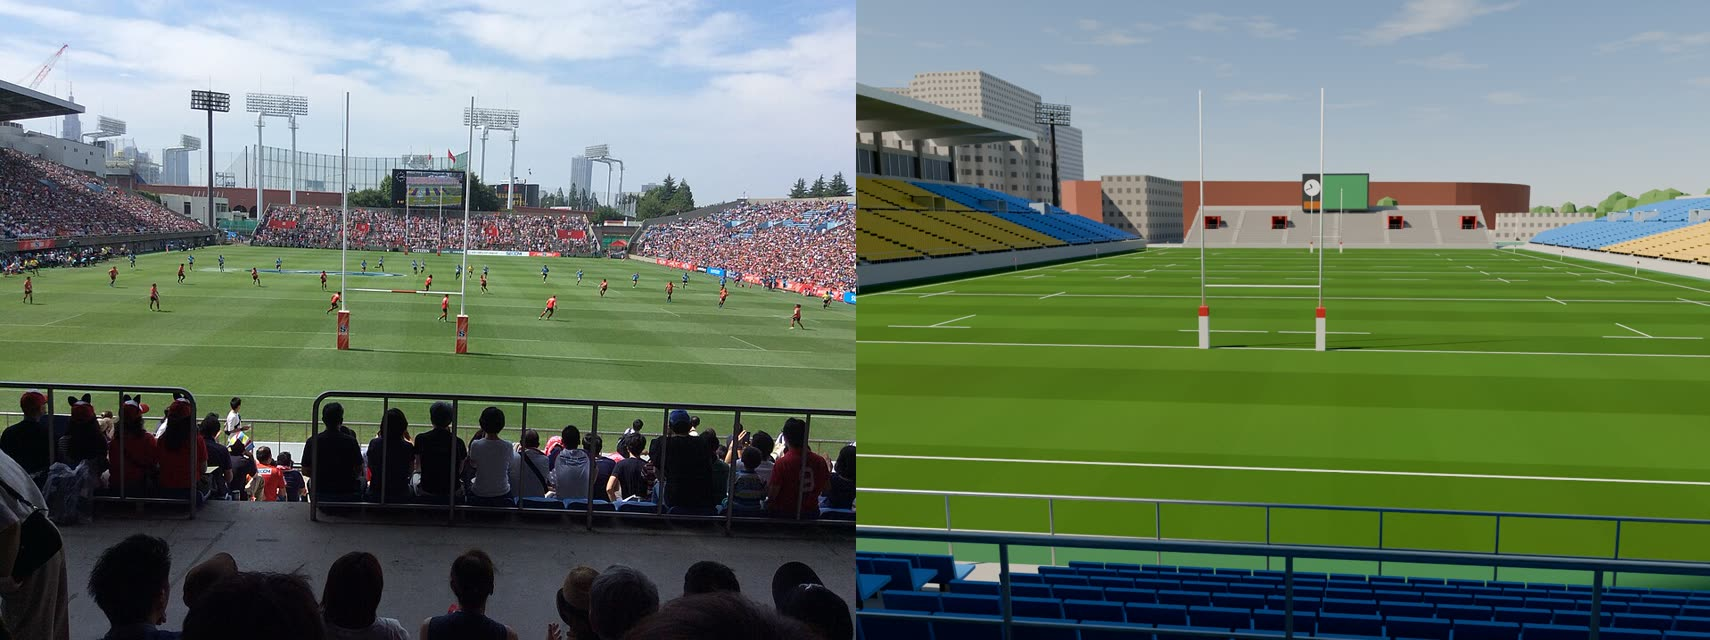
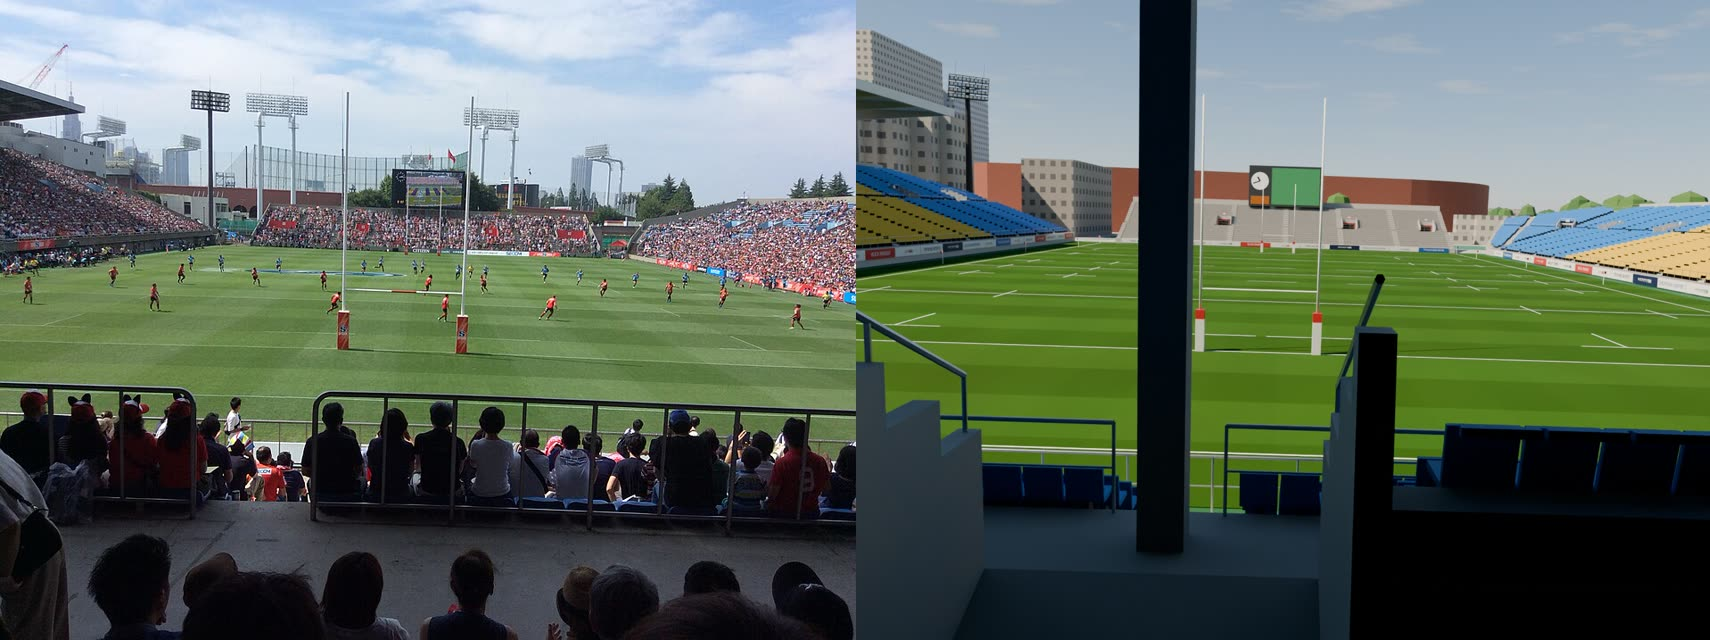
比較 04 のカメラをポストから解き直した(映像装置の位置は正しかった)
- 手前と奥のポスト 10 点から位置・向き・傾き・焦点距離を解いた(平均 2 画素)。
  前のカメラは出入口の箱を避けるために Y を 4.8 m ずらしていて、映像装置が東へずれて見えていた。
- compare.py に角度ごとの roll と clip を足した。
- 手前の南スタンド(柱が中央にある、段が高い)は写真と違う。remaining.md に書いた。

Changed region(s): [[0.4959, 0.0, 1.0, 1.0], [0.7749, 0.0, 0.8678, 0.0625]]

diff --git a/tools/fit_cam_points.py b/tools/fit_cam_points.py
@@ -1,0 +1,57 @@
+"""既知の 3D 点と写真の点から、カメラ(位置、yaw、pitch、roll、焦点距離)を最小二乗で解く。"""
+import math, sys
+src = open("fit_cam.py").read()
+ns = {}; exec(src.split("def cam(p):")[0] + "def nm" + src.split("def nm")[1].split("for label, near in")[0], ns)
+nm = ns["nm"]
+W, H = 960, 717
+OBS = [  # (X, Y, Z) -> (x, y)   写真 04
+    ((-50, 2.8, 12.0), (389.5, 103.5)), ((-50, 2.8, 0.0), (385, 390)),
+    ((-50, -2.8, 12.0), (529.5, 109)), ((-50, -2.8, 0.0), (518, 396)),
+    ((-50, 2.8, 3.0), (390, 325)), ((-50, -2.8, 3.0), (517.5, 328.5)),
+    ((50, 2.8, 0.0), (456, 282)), ((50, -2.8, 0.0), (493.5, 283)),
+    ((50, 2.8, 12.0), (456, 205)), ((50, -2.8, 12.0), (493.5, 205)),
+]
+def cam(p):
+    cx, cy, cz, yaw, pitch, roll, lens = p
+    f = (math.cos(yaw) * math.cos(pitch), math.sin(yaw) * math.cos(pitch), -math.sin(pitch))
+    r = (f[1], -f[0], 0.0); n = math.hypot(r[0], r[1]); r = (r[0] / n, r[1] / n, 0.0)
+    u = (r[1] * f[2] - r[2] * f[1], r[2] * f[0] - r[0] * f[2], r[0] * f[1] - r[1] * f[0])
+    cr, sr = math.cos(roll), math.sin(roll)
+    r2 = tuple(r[i] * cr + u[i] * sr for i in range(3)); u2 = tuple(u[i] * cr - r[i] * sr for i in range(3))
+    return (cx, cy, cz), f, r2, u2, W * lens / 36.0
+def proj(c, P):
+    C, f, r, u, fp = c
+    d = [P[i] - C[i] for i in range(3)]; z = sum(d[i] * f[i] for i in range(3))
+    return (W / 2 + fp * sum(d[i] * r[i] for i in range(3)) / z, H / 2 - fp * sum(d[i] * u[i] for i in range(3)) / z)
+def cost(p):
+    c = cam(p); s = 0
+    for P, q in OBS:
+        a = proj(c, P); s += (a[0] - q[0]) ** 2 + (a[1] - q[1]) ** 2
+    return s
+XF = float(sys.argv[1]) if len(sys.argv) > 1 else None
+NEAR_ONLY = len(sys.argv) > 2
+if NEAR_ONLY:
+    OBS[:] = OBS[:6]
+best = None
+for lens in (27, 29, 32):
+    if XF is None:
+        p, v = nm(cost, [-84, -1.0, 7.0, 0.05, math.radians(5), 0.0, lens], [3, 2, 2, 0.03, 0.03, 0.02, 3], 6000)
+    else:
+        f6 = lambda q: cost([XF] + q)
+        q, v = nm(f6, [-1.0, 6.0, 0.05, math.radians(5), 0.0, lens], [2, 2, 0.03, 0.03, 0.02, 3], 6000)
+        p = [XF] + q
+    if best is None or v < best[1]: best = (p, v)
+p, v = best
+print("rms %.2f px  cam (%.1f, %.1f, %.1f) yaw %.2f° pitch %.2f° roll %.2f° lens %.1f mm" % (
+    math.sqrt(v / len(OBS)), p[0], p[1], p[2], math.degrees(p[3]), math.degrees(p[4]), math.degrees(p[5]), p[6]))
+c = cam(p)
+print("見る先 (%.1f, %.1f, %.1f)" % tuple(c[0][i] + c[1][i] * 120 for i in range(3)))
+for name, P in (("映像装置の中心(Y=-1)", (86, -1, 12.8)), ("映像装置の西端 Y=7", (86, 7, 12.8)), ("東端 Y=-9", (86, -9, 12.8))):
+    print(name, "→ x %.0f y %.0f" % proj(c, P))
+# 写真の映像装置: x 440〜521、中心 480.5、y 189〜230
+lo, hi = -40.0, 40.0
+for _ in range(60):
+    m = (lo + hi) / 2
+    if proj(c, (86, m, 12.8))[0] > 480.5: lo = m
+    else: hi = m
+print("写真の映像装置の中心は Y = %.1f(X=86 とすると)" % m)

diff --git a/scripts/compare.py b/scripts/compare.py
@@ -4,6 +4,7 @@
 左が参考写真(Wikimedia Commons)、右がこのモデル。refs/commons/ に写真がなければ描いた側だけを out/compare/ に残す。
 """
 import argparse
+import math
 import os
 import subprocess
 import sys
@@ -15,6 +16,11 @@ import bpy  # noqa: E402
 from cb import cameras, config, sky  # noqa: E402
 
 # (番号と名前, 参考写真のファイル, 作者, ライセンス, 昼夜, カメラ位置, 見る先, 焦点距離 mm, 縦横比)
+# 角度ごとの追加: roll(度、画像の傾き)、clip(手前を描かない距離 m。カメラが模型の段より下に入るとき)
+EXTRA = {
+    "04_from_south": {"roll": 1.79, "clip": 4.0},   # 解いたカメラ(高さ 6.6 m)は模型の南スタンドの段より低い。手前 4 m を描かない
+}
+
 ITEMS = [
     # 段階 3 で入れた比較(段数・高さ・屋根の奥行の確かめ)。カメラはゴールポスト(高さ 12 m、間隔 5.6 m)が重なるように合わせる
     ("01_from_back_south", "Chichibunomiya3.JPG", "Waka77", "Public domain", "day",
@@ -24,7 +30,7 @@ ITEMS = [
     ("03_back_stand", "秩父宮ラグビー場_(21776716854).jpg", "Tetsuji Sakakibara", "CC BY-SA 2.0", "day",
      (-3.3, 67.2, 12.8), (1.3, -59.3, 1.6), 31.8, (4, 3)),   # 芝のライン 20 点から最小二乗で解いた(平均 1.2 画素)
     ("04_from_south", "Chichibunomiya_Rugby_Stadium2.jpg", "江戸村のとくぞう", "CC BY-SA 4.0", "day",
-     (-82.2, -4.0, 6.1), (39.3, 7.3, -11.6), 29, (4, 3)),
+     (-86.8, -1.1, 6.6), (32.1, -1.3, -9.5), 32.7, (4, 3)),   # 手前と奥のポスト 10 点から解いた(平均 2 画素)
     ("05_behind_north_posts", "Chichibunomiya_Rugby_Stadium-6.jpg", "江戸村のとくぞう", "CC BY-SA 4.0", "day",
      (77.7, 4.6, 4.6), (-60.0, -18.3, 16.4), 46, (3, 2)),
 ]
@@ -56,6 +62,13 @@ def main():
         scene.render.image_settings.quality = 92
         (sky.setup_day if tm == "day" else sky.setup_night)(scene)
         scene.camera = cameras.make(scene, "cmp_" + name, loc, tgt, lens)
+        ex = EXTRA.get(name, {})
+        if ex.get("roll"):
+            from mathutils import Quaternion
+            ob = scene.camera
+            ob.rotation_euler = (ob.rotation_euler.to_quaternion() @ Quaternion((0, 0, 1), math.radians(ex["roll"]))).to_euler()
+        if ex.get("clip"):
+            scene.camera.data.clip_start = ex["clip"]
         rp = os.path.join(out_r, name + ".jpg")
         scene.render.filepath = rp
         bpy.ops.render.render(write_still=True)

diff --git a/tools/lines_overlay.py b/tools/lines_overlay.py
@@ -7,7 +7,7 @@ import sys
 
 photo, out = sys.argv[1], sys.argv[2]
 cx, cy, cz, tx, ty, tz, lens = map(float, sys.argv[3:10])
-W, H = 960, 720
+W, H = (int(sys.argv[10]), int(sys.argv[11])) if len(sys.argv) > 11 else (960, 720)
 raw = subprocess.run(["ffmpeg", "-loglevel", "error", "-i", photo, "-vf", "scale=%d:%d" % (W, H),
                       "-f", "rawvideo", "-pix_fmt", "rgb24", "-"], capture_output=True, check=True).stdout
 img = bytearray(raw)
@@ -52,6 +52,15 @@ for y in (30, -30, 20, -20):
     seg((-50, y, 0), (50, y, 0), CY)                  # 5 m・15 m
 for x in (0, 10, -10, 28, -28, 50, -50):
     seg((x, -35, 0), (x, 35, 0), RED if x in (0, 50, -50, 28, -28) else CY)
+# ゴールポスト(X=±50、Y=±2.8、高さ 12 m、クロスバー 3 m)
+for gx in (50, -50):
+    for gy in (2.8, -2.8):
+        seg((gx, gy, 0), (gx, gy, 12), YEL)
+    seg((gx, -2.8, 3), (gx, 2.8, 3), YEL)
+# 北の前の壁(X=70.5)、映像装置(X=86、Y 7〜−9、8.4〜17.2 m)
+seg((70.5, -33, 1.0), (70.5, 35.7, 1.0), MAG)
+for (y0, y1, z0, z1) in ((7, -9, 8.4, 8.4), (7, -9, 17.2, 17.2), (7, 7, 8.4, 17.2), (-9, -9, 8.4, 17.2)):
+    seg((86, y0, z0), (86, y1, z1), MAG)
 # 東の前の壁(Y=-41.7、上端 1.2 m)と最上部(Y=-76.4、11.2 m)、照明塔の頭
 seg((-70, -41.7, 1.2), (70, -41.7, 1.2), YEL)
 seg((-70, -41.7, 0.1), (70, -41.7, 0.1), YEL)

diff --git a/PROGRESS.md b/PROGRESS.md
@@ -28,11 +28,13 @@
 | 23:43 | バックスタンドの両端を、芝の中央の方へ回り込む角のブロックにした(座席図・空中写真・写真 Rugby1/2)。出入口を上の開いた穴(低い壁と手すり)にした | 良くなった。比較 02・03 の手前、空中写真の角の出入口の向き |
 | 23:48 | 看板: 四方の前の壁に幅 6 m の架空の看板(`signage.py`、社名 12 種) | 良くなった。比較 03・05 で白い看板の列が写真と同じ位置 |
 | 23:57 | 比較 03 のカメラを芝のライン 20 点から最小二乗で解き直した(傾き 7.9→5.1 度、29→31.8 mm)。東の照明塔を測り直した(25→31 m、南東 X −58→−48) | 良くなった。芝・看板・スタンド最上部(11.2 m は正しかった)・照明塔が重なる |
+| 00:07 | 比較 04 のカメラをポスト 10 点から解き直した(X −82.2→−86.8、Y −4→−1.1、29→32.7 mm、傾き 1.8 度。前は出入口の箱を避けるために Y を 4.8 m ずらしていた)。`compare.py` に roll と clip を足した | 良くなった。映像装置は空中写真の位置のままで写真と重なる(ずれていたのはカメラ)。手前の南スタンドの柱と段は違う(次の項目) |
 
 自分で決めたこと:
 - 角のブロックの向きは 60 度、折れ目は |X| = 64.8(推定)。62.8 だと比較 02 の撮影位置で段が高すぎたので外へ 2 m ずらした。
 - 角の外周は腰壁ではなく手すり(壁だと比較 01 の撮影位置の前をふさぐ)。
 - 出入口の床は奥へ 1.2 m 下がる(奥の口の高さを取るため。推定)。
+- 比較 04 のカメラは、X も解いた方(−86.8、平均 2 画素)を採った。X を −82.6 に固定しても 3 画素で合うが、それだと写真にない南の屋根の柱がカメラの前に来る。
 - 比較 03 の手前の破線は 5 m・15 m ラインとした(もう一方の仮定ではカメラがスタンドの中に入る)。東の照明塔の奥行 Y = −82 は前と同じ仮定。
 - 看板は前の壁の面だけにし、白地を多めにした(写真 03・05)。社名はラグビーの言葉と外苑・青山の言葉から作った架空のもの。
 

diff --git a/docs/remaining.md b/docs/remaining.md
@@ -7,7 +7,8 @@
 1. **看板は前の壁だけ**。四方の前の壁に幅 6 m の架空の看板を並べた(`signage.py`)。写真で見える芝の外の低い看板、ゲート番号の数字はまだ。
    写真 03 では看板の帯が模型より太く明るい(高さ 1 m は推定)。
 2. **スタンドの外壁と正面入場口がない**。メインの後ろ(西)は躯体の箱のまま。正面の門(施設名の入った門型の枠)、北・南の外側の階段も未作成。
-3. **映像装置の左右の位置**(比較 04)。写真では右のポストの左、模型では右に見え、東へ 10 m ほどずれている。比較 01 では合うので、空中写真で測り直してどちらに合わせるか決める。
+3. **南スタンドの屋根の柱と断面**(比較 04・05)。写真 05 では柱が 7.8 m おきで中央(Y = 0)に柱がない(Y ≈ −36.9、−29.1 … 2.2 … 33.3)。模型は 9.3 m おきで中央に 1 本あり、比較 04 でカメラの前に写る。
+   比較 04 を解いたカメラ(X = −86.8、高さ 6.6 m)は模型の段より低く、写真の手前の横通路はカメラの 3 m ほど前に見える。実物は前段が深く(横通路が d ≈ 10 m)、柱は横通路の上にあるらしい。
 4. **座席の青が暗い**(比較 02・03)。実物はもう少し明るい空色。
 5. **周りの建物の高さの 9 割は推定**(OSM に高さも階数もない 1,347 棟は床面積から決めた)。写真 01・02 の背景で、模型のほうが高い建物がある。
    周りは今(2026 年)の OSM なので、2012〜2013 年の写真にない建物も入っている。

diff --git a/docs/compare/README.md b/docs/compare/README.md
@@ -1,7 +1,7 @@
 # 参考写真との比較
 
 左が参考写真、右がこのモデルを同じ角度から描いたもの。`./run.sh compare` で作り直せる(`--blend` で写真と半透明に重ねた絵も out/compare/ に出る)。
-カメラの位置と焦点距離は、写っているゴールポスト(高さ 12 m、間隔 5.6 m)の見かけの大きさと位置から計算して置いた。03 は芝のライン 20 点から最小二乗で解き直した(平均 1.2 画素)。01 と 02 は数度のずれが残る。見つかった違いは [../remaining.md](../remaining.md)。
+カメラの位置と焦点距離は、写っているゴールポスト(高さ 12 m、間隔 5.6 m)の見かけの大きさと位置から計算して置いた。03 は芝のライン 20 点、04 は手前と奥のポスト 10 点から最小二乗で解き直した(平均 1.2 画素、2 画素。04 は画像の傾き 1.8 度も入れた)。01 と 02 は数度のずれが残る。見つかった違いは [../remaining.md](../remaining.md)。
 
 参考写真はすべて Wikimedia Commons のもので、下の作者とライセンスに従って使っている。
 CC BY-SA の写真を含む比較画像は、同じ CC BY-SA 4.0 で公開する。写真は大きさだけを変えている。
